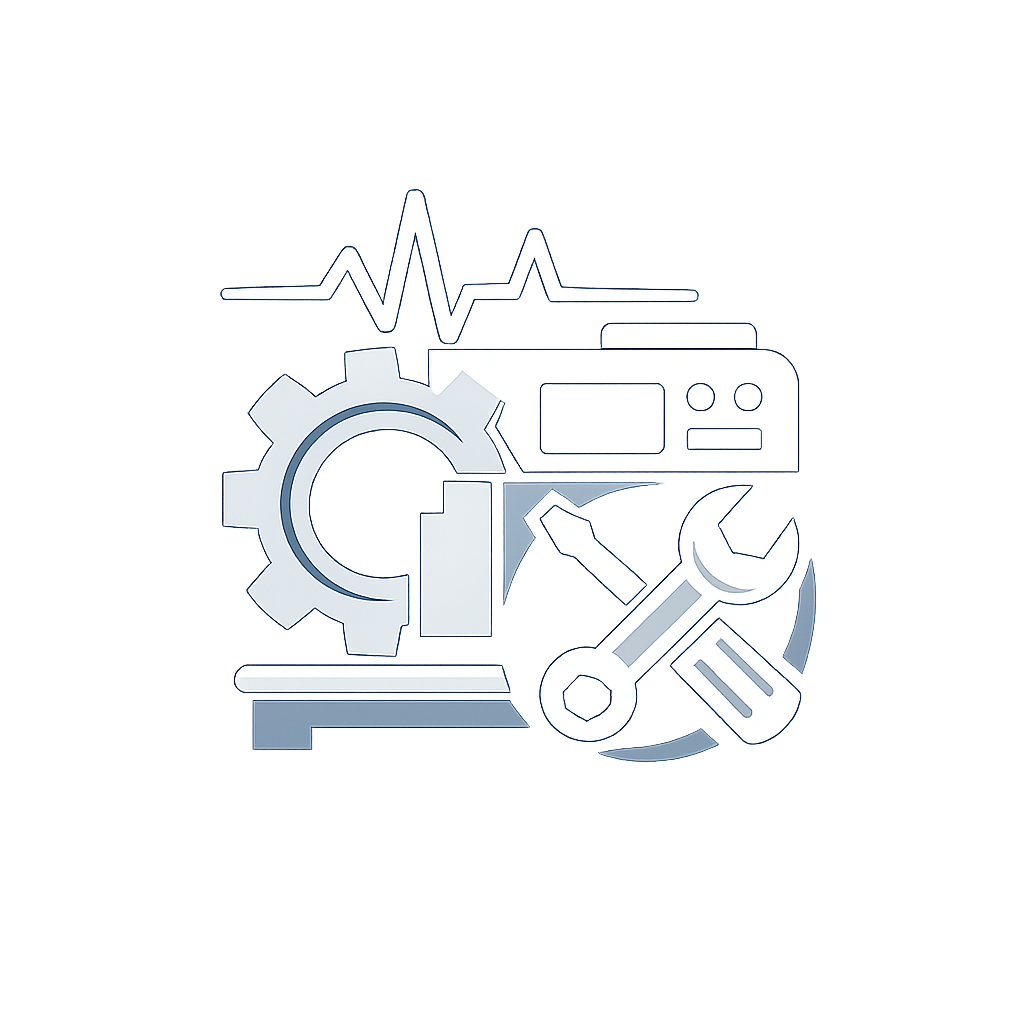
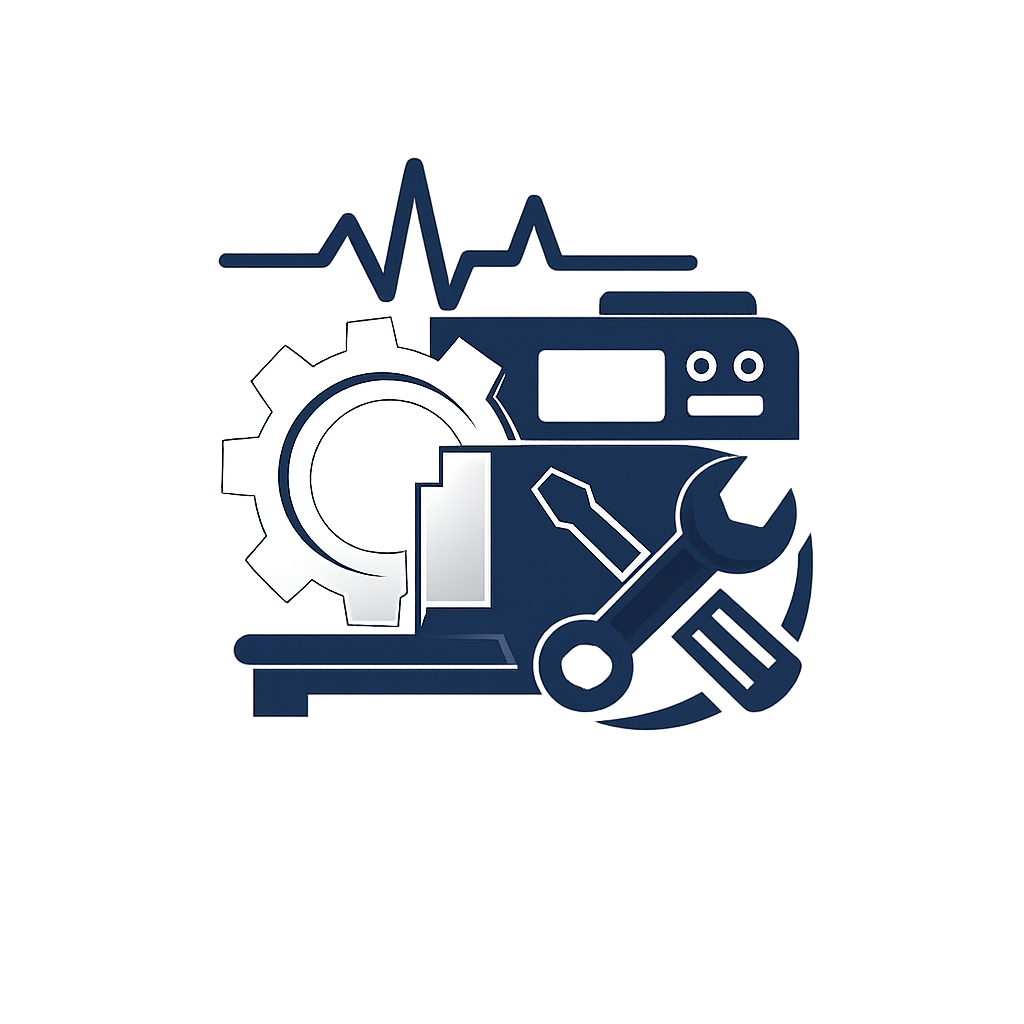
Fix: Troca de icones, refaturação do css

Changed region(s): [[0.2188, 0.1562, 0.8125, 0.75]]

diff --git a/CSS/loguin.css b/CSS/loguin.css
@@ -4,6 +4,11 @@
     box-sizing:border-box;
     font-family:'Segoe UI',sans-serif;
 }
+html,
+body{
+    width:100%;
+    overflow-x:hidden;
+}
 
 body{
     min-height:100vh;
@@ -55,14 +60,20 @@ body{
 
 .login-wrapper{
     width:100%;
-    max-width:1000px;
+    min-height:100vh;
 
-    display:flex;
-    align-items:center;
+    display:grid;
+
+    grid-template-columns:
+    minmax(280px,450px)
+    minmax(280px,420px);
+
     justify-content:center;
-    gap:60px;
+    align-items:center;
 
-    padding:30px;
+    gap:40px;
+
+    padding:20px;
 }
 
 /* Área da marca */
@@ -196,33 +207,68 @@ button:active{
 
 /* Responsivo */
 
-@media(max-width:900px){
+@media (max-width: 900px){
 
     .login-wrapper{
-        flex-direction:column;
-        gap:25px;
+        grid-template-columns:1fr;
+        gap:20px;
+    }
+
+    .login-brand{
+        max-width:100%;
     }
 
     .login-brand img{
-        width:160px;
+        width:140px;
     }
 
     .login-brand h1{
         font-size:1.8rem;
     }
 
-    .login-container{
-        max-width:420px;
-    }
 }
+@media (max-width: 600px){
 
-@media(max-width:500px){
+    body{
+        padding:15px;
+    }
 
-    .login-container{
-        padding:30px 25px;
+    .login-wrapper{
+        padding:0;
+        gap:15px;
+    }
+
+    .login-brand{
+        margin-top:20px;
+    }
+
+    .login-brand img{
+        width:110px;
+    }
+
+    .login-brand h1{
+        font-size:1.5rem;
     }
 
     .login-brand p{
-        font-size:.95rem;
+        display:none;
+    }
+
+    .login-container{
+        width:100%;
+        max-width:none;
+
+        padding:25px 20px;
+
+        border-radius:18px;
+    }
+
+    input{
+        padding:12px;
+        font-size:16px;
+    }
+
+    button{
+        padding:14px;
     }
 }